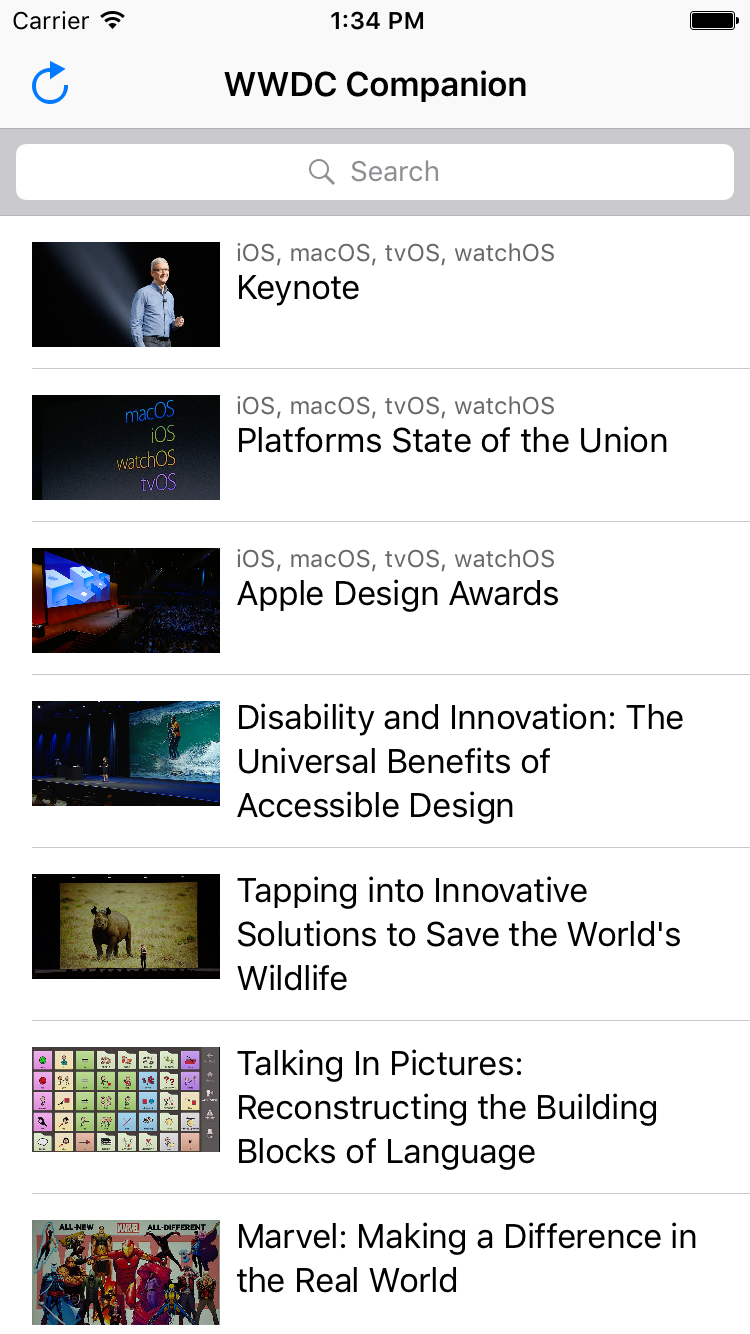
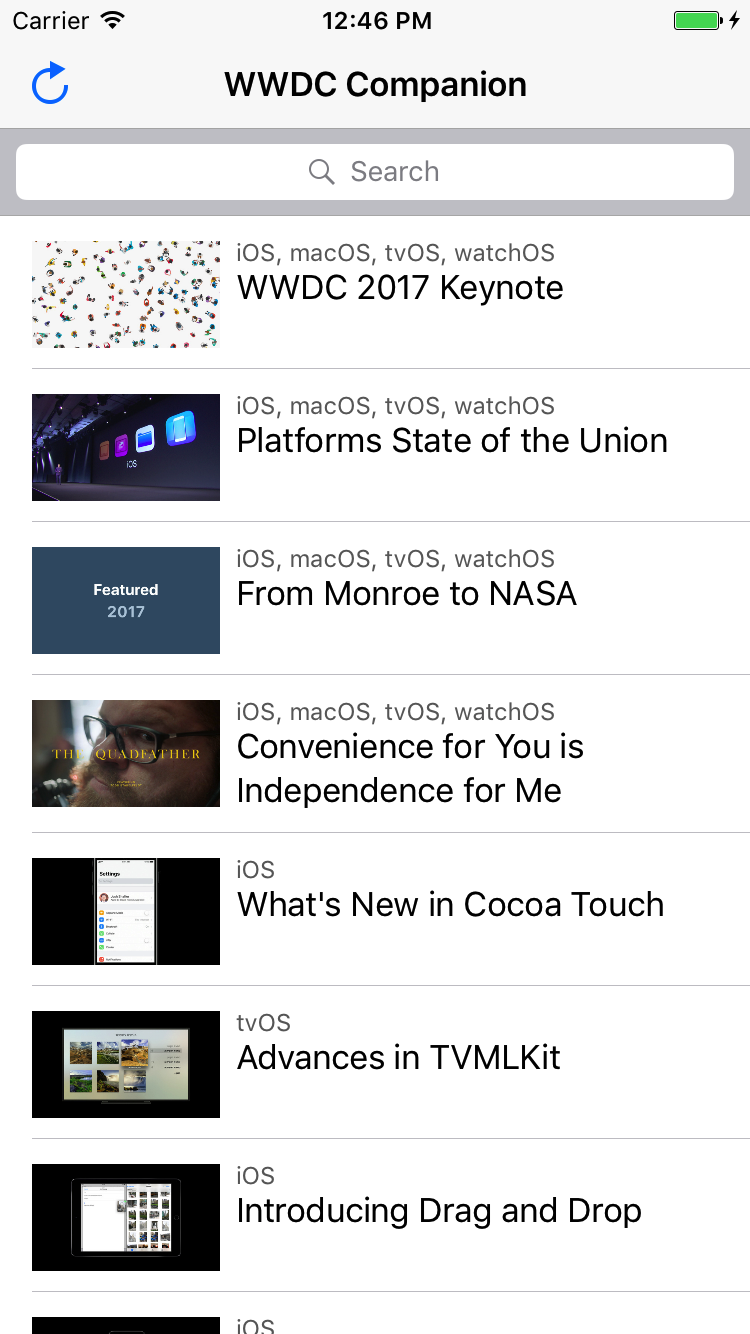
WWDC 2017

diff --git a/WWDCCompanion/WWDC2017.swift b/WWDCCompanion/WWDC2017.swift
@@ -21,7 +21,7 @@ struct ScrapingError : Error {
     }
 }
 
-struct WWDC2016 {
+struct WWDC2017 {
     static func download(completion: @escaping (Error?) -> ()) -> Progress {
         let session = URLSession(configuration: .default)
         let progress = Progress()
@@ -32,7 +32,7 @@ struct WWDC2016 {
             }
         }
         
-        let listURL = URL(string: "https://developer.apple.com/videos/wwdc2016/")!
+        let listURL = URL(string: "https://developer.apple.com/videos/wwdc2017/")!
         let listTask = session.dataTask(with: listURL) { (data, response, error) in
             guard let data = data else {
                 progress.cancel()
@@ -61,7 +61,7 @@ struct WWDC2016 {
                                 let parsedSessionFromSessionPage = try page.session()
                                 try dbQueue.inDatabase { db in
                                     let session = Session(
-                                        year: 2016,
+                                        year: 2017,
                                         number: parsedSessionFromListPage.number,
                                         collection: parsedCollection.collection,
                                         title: parsedSessionFromSessionPage.title,
@@ -170,7 +170,7 @@ private struct SessionPage {
         let title: String
         let description: String
         let transcript: String
-        let videoURL: URL
+        let videoURL: URL?
         let presentationURL: URL?
     }
     
@@ -190,33 +190,35 @@ private struct SessionPage {
                 paragraphElem.css("span").flatMap { $0.textPresence }.joined(separator: " ")
             }
             .joined(separator: "\n\n")
-        guard !transcript.isEmpty else { throw ScrapingError() }
         var videoURL: URL? = nil
         var presentationURL: URL? = nil
-        for resourceElem in supplementsElem.css("li.resources ul.links > li") {
+        for resourceElem in supplementsElem.css("li.supplement ul.links > li") {
             let resourceKind = resourceElem.attributes["class"]
             switch resourceKind {
-            case "video"?:
-                guard let anchorElem = resourceElem.firstChild(css: "a"),
+            case "download"?:
+                if let anchorElem = resourceElem.firstChild(css: "a"),
                     let urlString = anchorElem.attributes["href"],
-                    let URL = URL(string: urlString, relativeTo: baseURL) else { throw ScrapingError() }
-                videoURL = URL
+                    let URL = URL(string: urlString, relativeTo: baseURL)
+                {
+                    videoURL = URL
+                }
             case "document"?:
-                guard let anchorElem = resourceElem.firstChild(css: "a"),
+                if let anchorElem = resourceElem.firstChild(css: "a"),
                     let urlString = anchorElem.attributes["href"],
-                    let URL = URL(string: urlString, relativeTo: baseURL) else { throw ScrapingError() }
-                presentationURL = URL
+                    let URL = URL(string: urlString, relativeTo: baseURL)
+                {
+                    presentationURL = URL
+                }
             default:
                 break
             }
         }
-        guard videoURL != nil else { throw ScrapingError() }
         
         return ParsedSession(
             title: title,
             description: description,
             transcript: transcript,
-            videoURL: videoURL!,
+            videoURL: videoURL,
             presentationURL: presentationURL)
     }
 }

diff --git a/WWDCCompanion/Models/Session.swift b/WWDCCompanion/Models/Session.swift
@@ -13,7 +13,7 @@ class Session : Record {
     let watchOS: Bool
     let sessionURL: URL
     let imageURL: URL
-    let videoURL: URL
+    let videoURL: URL?
     let presentationURL: URL?
     
     var focuses: String {
@@ -26,7 +26,7 @@ class Session : Record {
 
     }
     
-    init(year: Int, number: Int, collection: String, title: String, description: String, transcript: String, iOS: Bool, macOS: Bool, tvOS: Bool, watchOS: Bool, sessionURL: URL, imageURL: URL, videoURL: URL, presentationURL: URL?) {
+    init(year: Int, number: Int, collection: String, title: String, description: String, transcript: String, iOS: Bool, macOS: Bool, tvOS: Bool, watchOS: Bool, sessionURL: URL, imageURL: URL, videoURL: URL?, presentationURL: URL?) {
         self.year = year
         self.number = number
         self.collection = collection

diff --git a/WWDCCompanion/Models/Database.swift b/WWDCCompanion/Models/Database.swift
@@ -40,7 +40,7 @@ func setupDatabase(_ application: UIApplication) throws {
             t.column("watchOS", .boolean).notNull()
             t.column("sessionURL", .text).notNull()
             t.column("imageURL", .text).notNull()
-            t.column("videoURL", .text).notNull()
+            t.column("videoURL", .text)
             t.column("presentationURL", .text)
         }
         

diff --git a/WWDCCompanion/Controllers/SessionsTableViewController.swift b/WWDCCompanion/Controllers/SessionsTableViewController.swift
@@ -128,7 +128,7 @@ class SessionsTableViewController: UITableViewController {
     // MARK: - Download
     
     @IBAction private func download() {
-        let progress = WWDC2016.download { [weak self] error in
+        let progress = WWDC2017.download { [weak self] error in
             guard let strongSelf = self else { return }
             
             if let error = error {

diff --git a/README.md b/README.md
@@ -1,7 +1,7 @@
 WWDC Companion
 ==============
 
-**This Swift 3 application stores, displays, and lets the user search the [WWDC 2016 sessions](https://developer.apple.com/videos/wwdc2016/).**
+**This Swift 3 application stores, displays, and lets the user search the [WWDC 2017 sessions](https://developer.apple.com/videos/wwdc2017/).**
 
 |         |         |         |         |
 | :-----: | :-----: | :-----: | :-----: |
